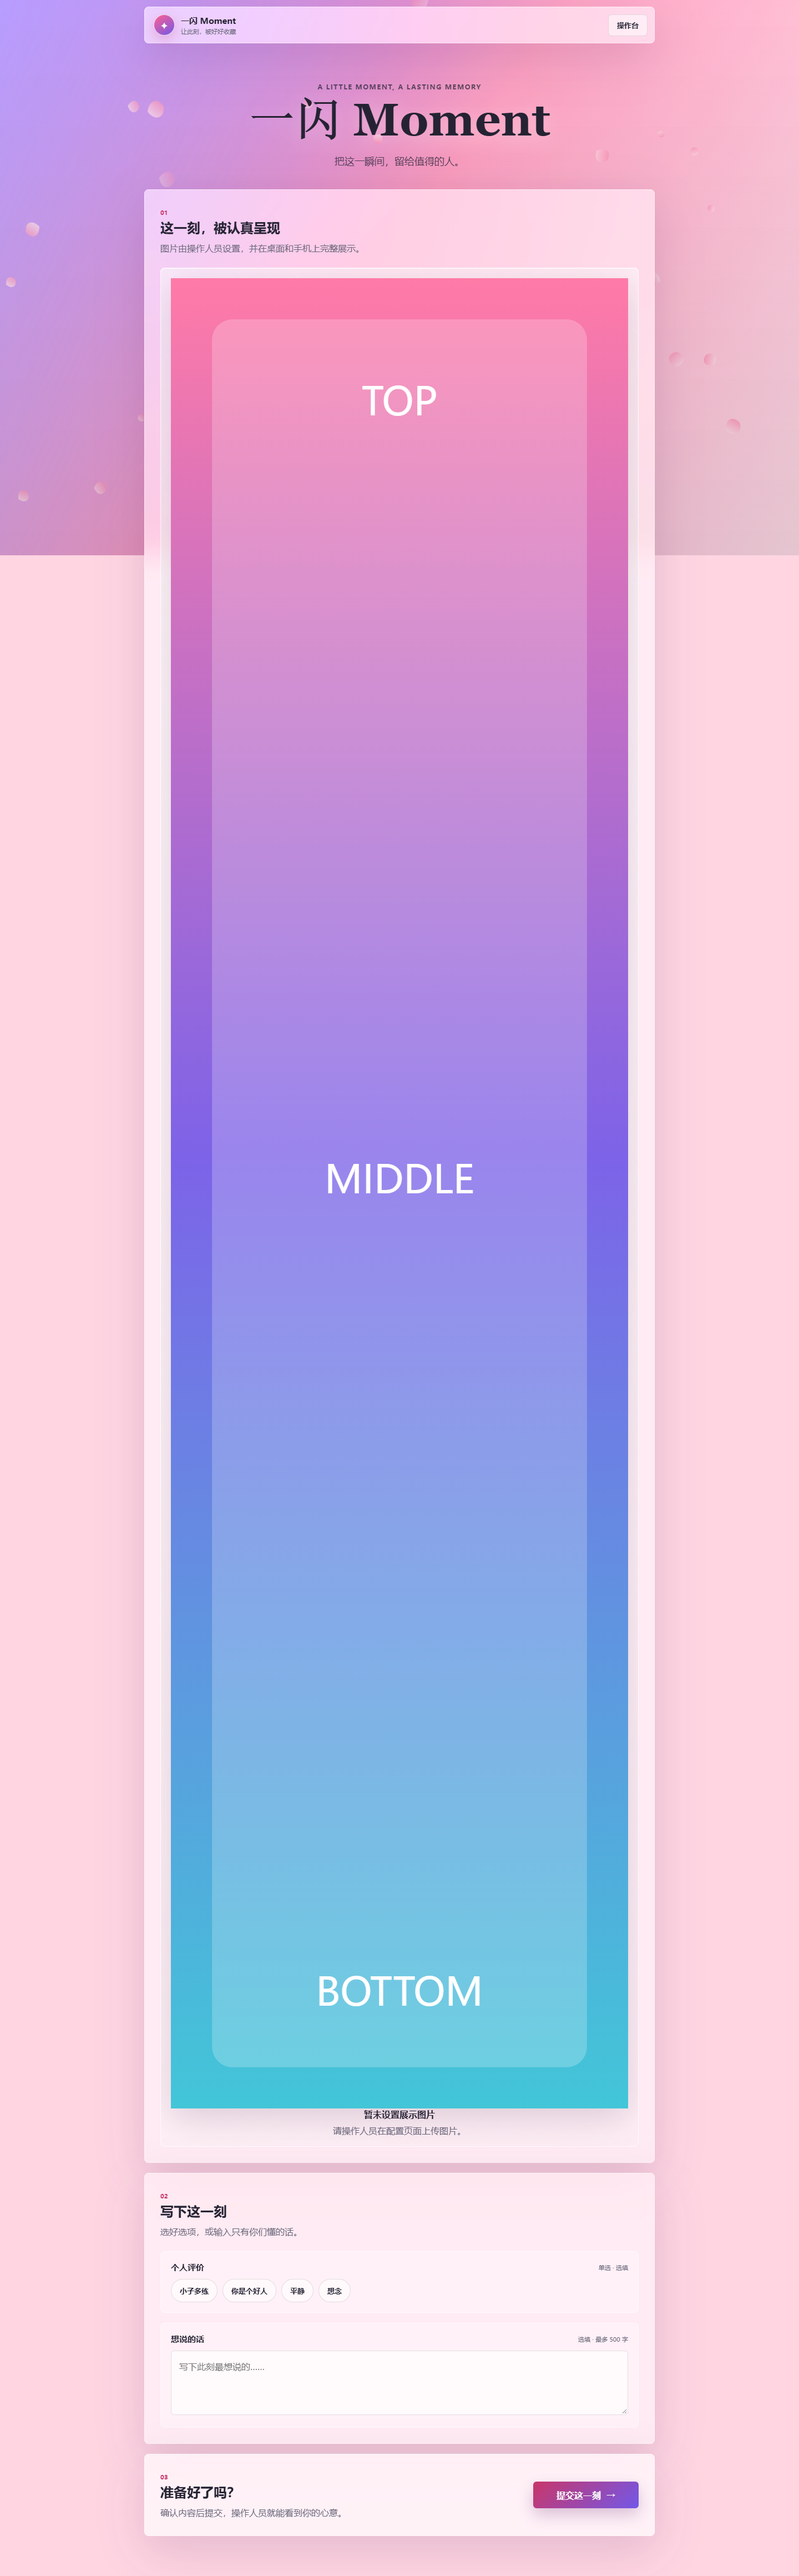
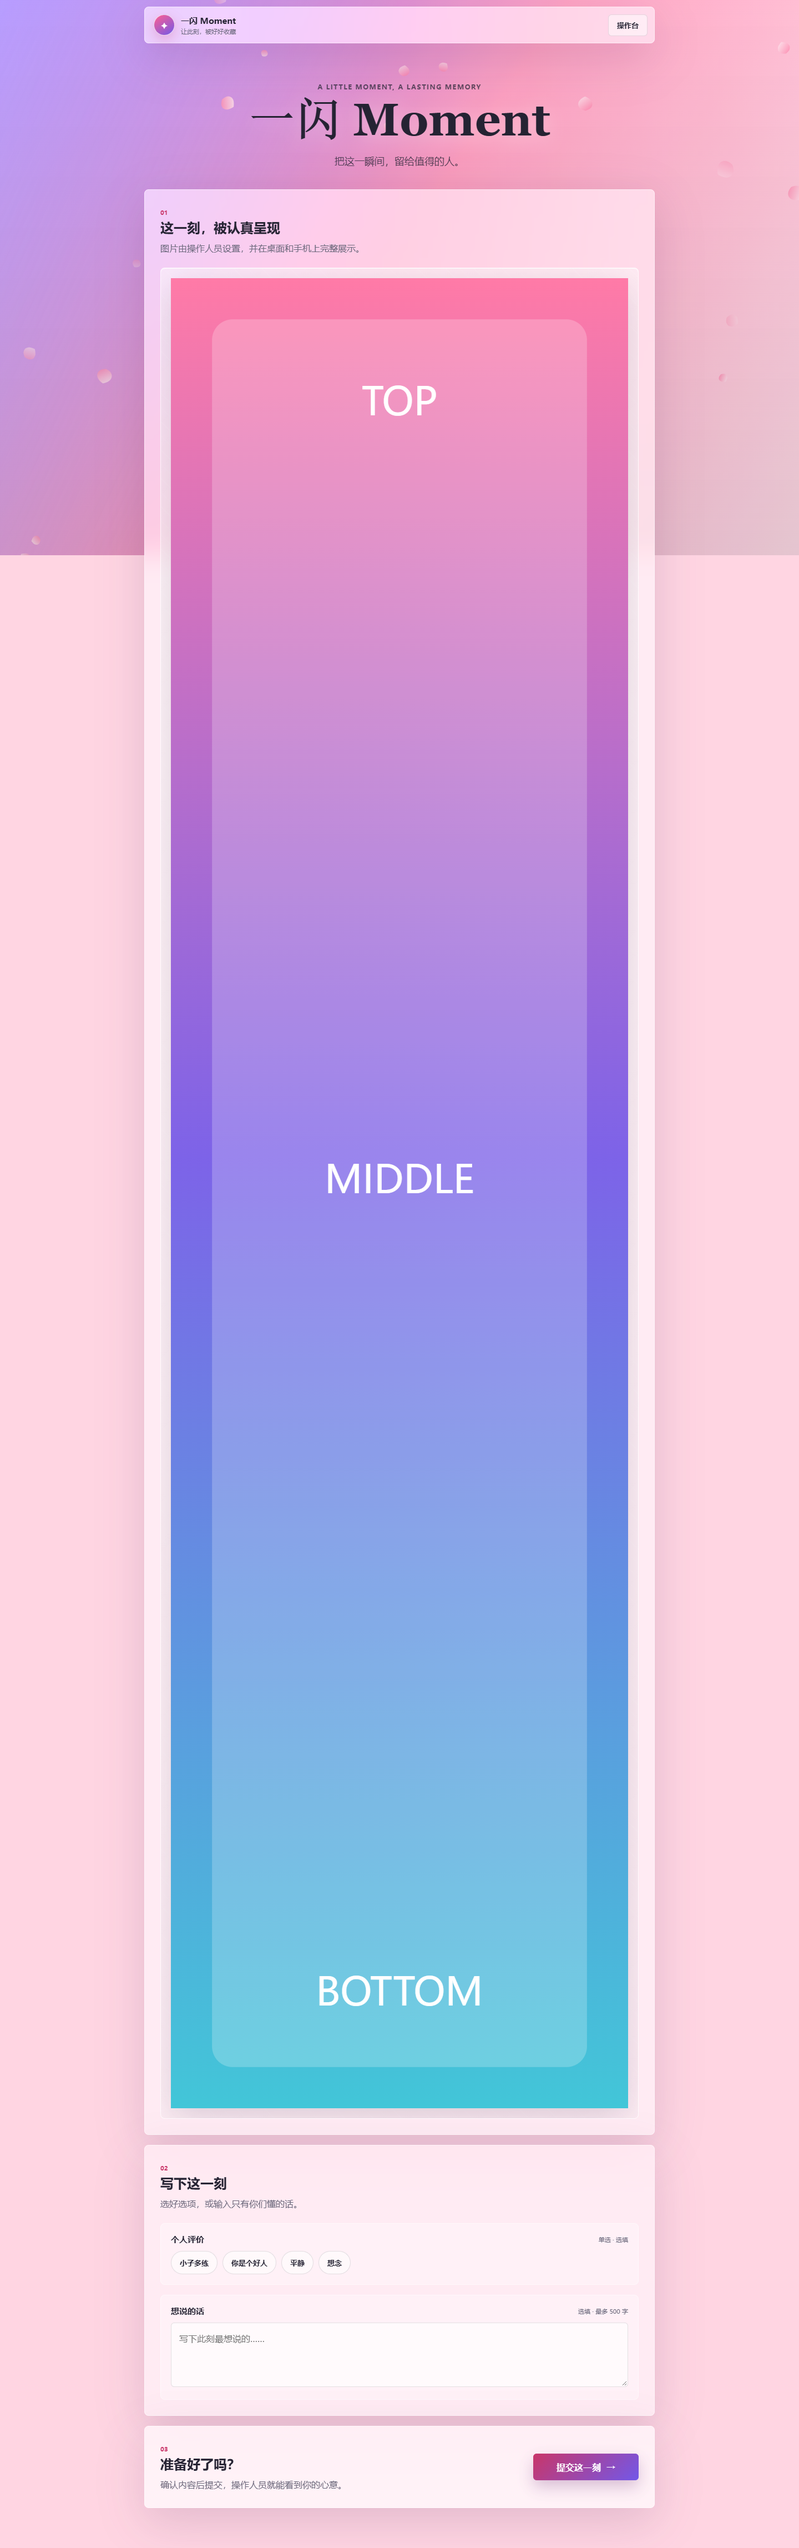
fix: remove all non-image prompts from participant image area

diff --git a/public/app.js b/public/app.js
@@ -9,7 +9,6 @@ const state = {
 const elements = {
   displayImage: document.querySelector('#display-image'),
   displayImageFrame: document.querySelector('#display-image-frame'),
-  displayImageEmpty: document.querySelector('#display-image-empty'),
   fields: document.querySelector('#fields-container'),
   submit: document.querySelector('#submit-button'),
   toast: document.querySelector('#toast'),
@@ -35,7 +34,6 @@ function renderDisplayImage() {
   if (!image) {
     elements.displayImage.removeAttribute('src');
     elements.displayImage.hidden = true;
-    elements.displayImageEmpty.hidden = false;
     elements.displayImageFrame.classList.add('empty');
     return;
   }
@@ -43,7 +41,6 @@ function renderDisplayImage() {
   elements.displayImage.src = image.url;
   elements.displayImage.alt = image.label || '展示图片';
   elements.displayImage.hidden = false;
-  elements.displayImageEmpty.hidden = true;
   elements.displayImageFrame.classList.remove('empty');
 }
 
@@ -193,3 +190,5 @@ async function init() {
 }
 
 init();
+
+

diff --git a/tests/frontend-smoke.test.js b/tests/frontend-smoke.test.js
@@ -22,6 +22,9 @@ test('participant page includes display image, fields, background picker, and su
   assert.doesNotMatch(html, /class="image-caption"/);
   assert.doesNotMatch(html, /class="status-chip">展示图片</);
   assert.doesNotMatch(html, /class="status-chip">可直接提交</);
+  assert.doesNotMatch(html, /暂未设置展示图片/);
+  assert.doesNotMatch(html, /请操作人员在配置页面上传图片/);
+  assert.doesNotMatch(html, /display-image-empty/);
   assert.match(html, /一闪 Moment/);
   assert.match(html, /favicon/);
   assert.ok(fs.existsSync(path.join(root, 'public', 'favicon.svg')));
@@ -59,6 +62,7 @@ test('participant app wires API calls and accessible form labels', () => {
   assert.doesNotMatch(js, /data-theme/);
   assert.doesNotMatch(js, /FormData/);
 });
+
 
 
 

diff --git a/public/index.html b/public/index.html
@@ -40,10 +40,6 @@
 
       <div id="display-image-frame" class="display-image-frame">
         <img id="display-image" alt="操作人员设置的展示图片">
-        <div id="display-image-empty" class="display-image-empty" hidden>
-          <strong>暂未设置展示图片</strong>
-          <span>请操作人员在配置页面上传图片。</span>
-        </div>
       </div>
     </section>
 
@@ -77,6 +73,7 @@
   <script src="/app.js"></script>
 </body>
 </html>
+
 
 
 

diff --git a/public/styles.css b/public/styles.css
@@ -656,17 +656,6 @@ a:focus-visible {
   display: none;
 }
 
-.display-image-empty {
-  display: grid;
-  place-items: center;
-  gap: 8px;
-  color: var(--muted);
-  text-align: center;
-}
-
-.display-image-empty strong {
-  color: var(--ink);
-}
 
 .image-caption {
   position: absolute;
@@ -712,6 +701,7 @@ a:focus-visible {
     filter: none;
   }
 }
+
 
 
 

diff --git a/UI-TEST-REPORT.md b/UI-TEST-REPORT.md
@@ -1,55 +1,41 @@
-# 一闪 Moment 图片完整展示与界面精简测试报告
+# 一闪 Moment 图片展示界面最终测试报告
 
 测试时间：2026-11-05  
 测试方式：本地 Node.js 服务 + Microsoft Edge 无头浏览器自动化
 
-## 测试结果
+## 本轮修复
+
+- 图片下方提示栏已删除。
+- “展示图片”提示词已删除。
+- “可直接提交”提示词已删除。
+- “暂未设置展示图片 / 请操作人员在配置页面上传图片”提示已彻底删除。
+- 图片区域从始至终只显示图片，不显示状态词、说明文字或空状态提示。
+
+## 自动化结果
 
 | 项目 | 结果 |
 | --- | --- |
-| 照片完整展示 | 通过，使用纵向测试图检查顶部、中部、底部均在页面中 |
+| 图片完整展示 | 通过 |
 | 图片比例不变形 | 通过 |
-| 图片不被模块裁剪 | 通过 |
 | 320px / 390px / 768px / 1440px 无横向溢出 | 通过 |
-| 删除“展示图片”提示词 | 通过 |
-| 删除“可直接提交”提示词 | 通过 |
-| 参与者页面无背景选择栏 | 通过 |
-| 参与者页面无图片说明栏 | 通过 |
-| 操作人员设置背景和展示图 | 通过 |
-| 二维码生成与保存 | 通过 |
+| `emptyPrompts = false` | 通过 |
+| `imageCaptions = 0` | 通过 |
+| `backgroundPickers = 0` | 通过 |
+| `uploadControls = 0` | 通过 |
+| 提交和管理页 | 通过 |
 | 浏览器控制台错误 | 无 |
 
-## 纵向完整图片检查
+## 纵向图片检查
 
-自动化测试使用 400 × 1600 的纵向测试图，验证图片高度完全进入模块：
+测试图尺寸为 400 × 1600：
 
-| 宽度 | 图片显示尺寸 | 模块尺寸 | 结果 |
+| 宽度 | 图片显示尺寸 | 图片模块尺寸 | 结果 |
 | --- | --- | --- | --- |
-| 320px | 240 × 960 | 262 × 1032 | 完整 |
-| 390px | 310 × 1240 | 332 × 1312 | 完整 |
-| 768px | 640 × 2560 | 678 × 2648 | 完整 |
-| 1440px | 824 × 3296 | 862 × 3384 | 完整 |
+| 320px | 240 × 960 | 262 × 982 | 完整 |
+| 390px | 310 × 1240 | 332 × 1262 | 完整 |
+| 768px | 640 × 2560 | 678 × 2598 | 完整 |
+| 1440px | 824 × 3296 | 862 × 3334 | 完整 |
 
-图片保持原始比例 `400:1600`，页面可继续向下滚动查看完整长图。
+## 结论
 
-## 界面精简
-
-参与者页面现在只保留：
-
-- 页面标题和说明
-- 操作人员设置的完整照片
-- 文本栏
-- 选项栏
-- 提交按钮
-
-不再显示：
-
-- “展示图片”状态词
-- “可直接提交”状态词
-- 图片下方说明栏
-- 背景选择栏
-- 图片上传或预设选择控件
-
-## 测试结论
-
-照片模块已改为按图片原始比例完整撑开，长图下部内容不会再被截断。参与者页面已精简为纯展示和填写体验，操作人员仍在操作台配置背景、图片和二维码。
+图片展示页面已达到纯图片展示要求，所有非图片提示均已移除。自动化测试和浏览器检查全部通过。
